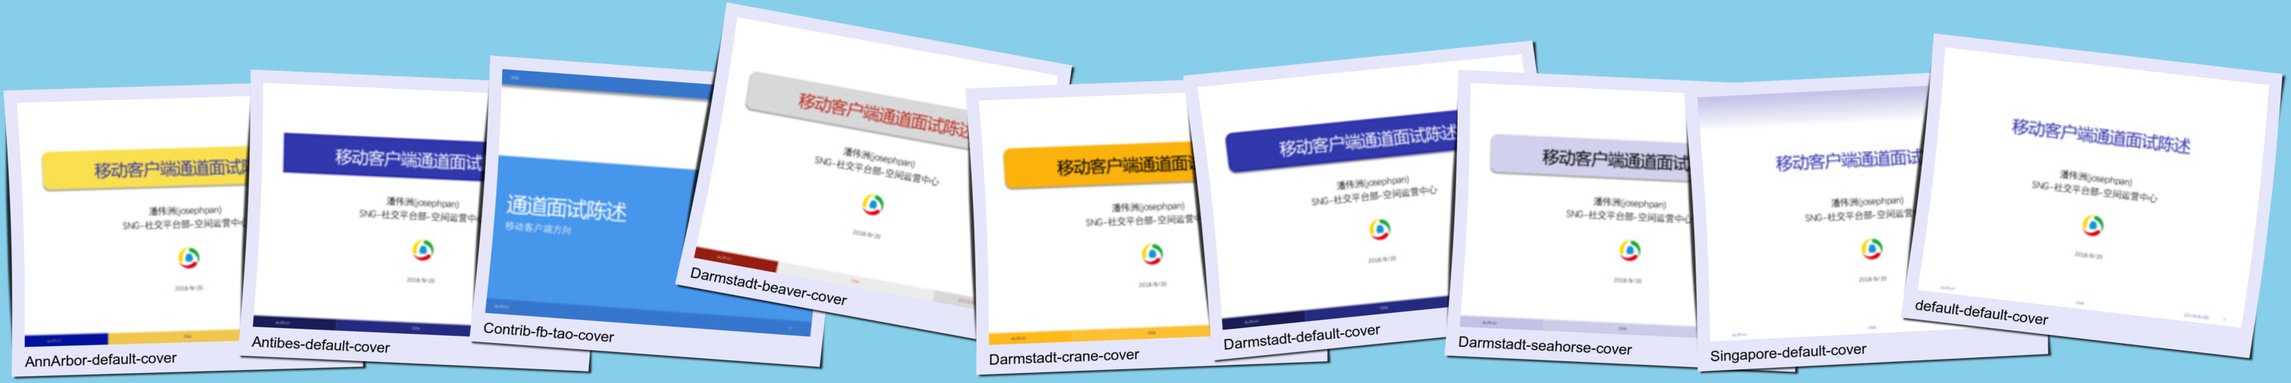
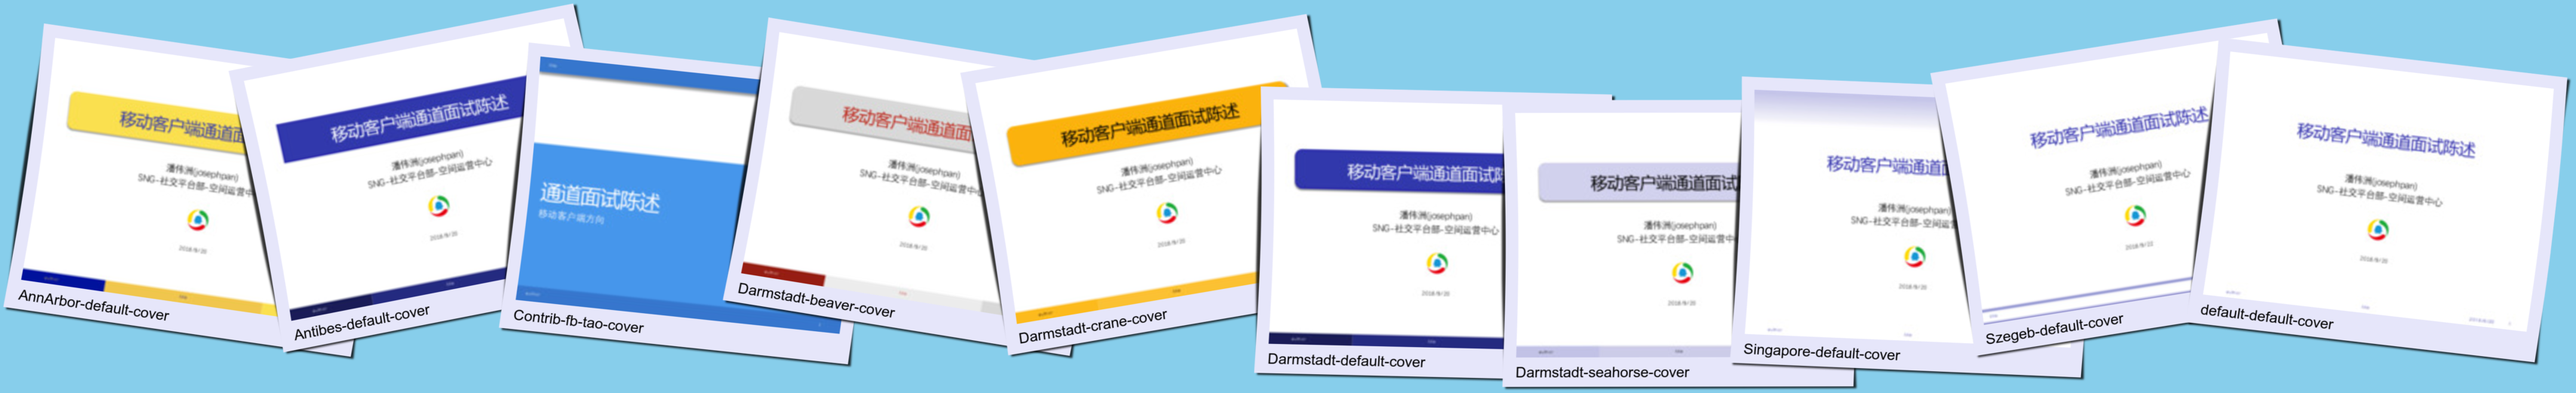
feat: 新增Szeged系列

diff --git a/README.md b/README.md
@@ -54,7 +54,7 @@ https://github.com/wzpan/BeamerStyleSlides.git
 | Pittsburgh | TBD | TBD | TBD | TBD | TBD | TBD | TBD | TBD | TBD | TBD | TBD | TBD |
 | Rochester | TBD | TBD | TBD | TBD | TBD | TBD | TBD | TBD | TBD | TBD | TBD | TBD |
 | Singapore | [singapore-default]| TBD | TBD | TBD | TBD | TBD | TBD | TBD | TBD | TBD | TBD | TBD |
-| Szeged | TBD | TBD | TBD | TBD | TBD | TBD | TBD | TBD | TBD | TBD | TBD | TBD |
+| Szeged | [Szeged-default] | TBD | TBD | TBD | TBD | TBD | TBD | TBD | TBD | TBD | TBD | TBD |
 | Warsaw | TBD | TBD | TBD | TBD | TBD | TBD | TBD | TBD | TBD | TBD | TBD | TBD |
 
 
@@ -118,6 +118,7 @@ https://github.com/wzpan/BeamerStyleSlides.git
 [Antibes-default]: https://github.com/wzpan/BeamerStyleSlides/blob/master/preview/Antibes-default.jpg
 [darmstadt-default]: https://github.com/wzpan/BeamerStyleSlides/blob/master/preview/Darmstadt-default.jpg
 [singapore-default]: https://github.com/wzpan/BeamerStyleSlides/blob/master/preview/Singapore-default.jpg
+[Szeged-default]: https://github.com/wzpan/BeamerStyleSlides/blob/master/preview/Szeged-default.jpg
 [darmstadt-beaver]: https://github.com/wzpan/BeamerStyleSlides/blob/master/preview/Darmstadt-beaver.jpg
 [darmstadt-crane]: https://github.com/wzpan/BeamerStyleSlides/blob/master/preview/Darmstadt-crane.jpg
 [darmstadt-seahorse]: https://github.com/wzpan/BeamerStyleSlides/blob/master/preview/Darmstadt-seahorse.jpg
